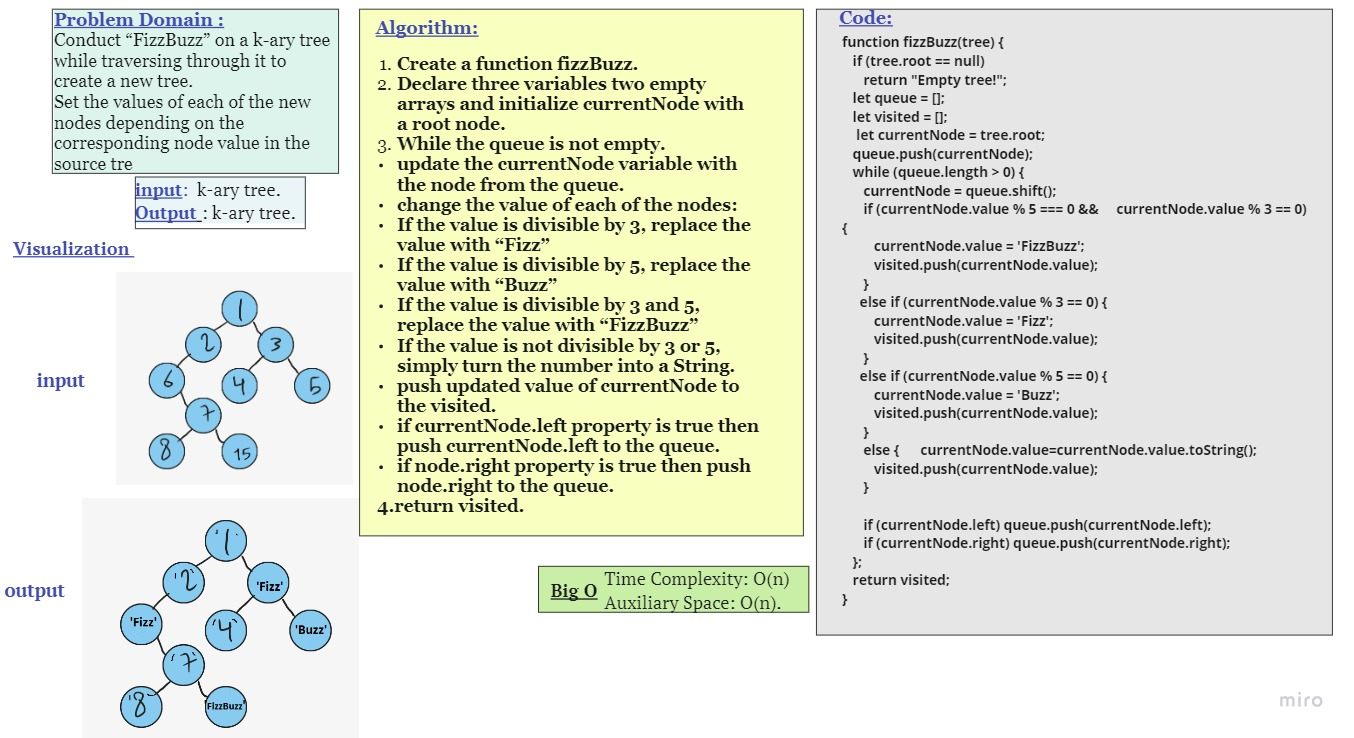
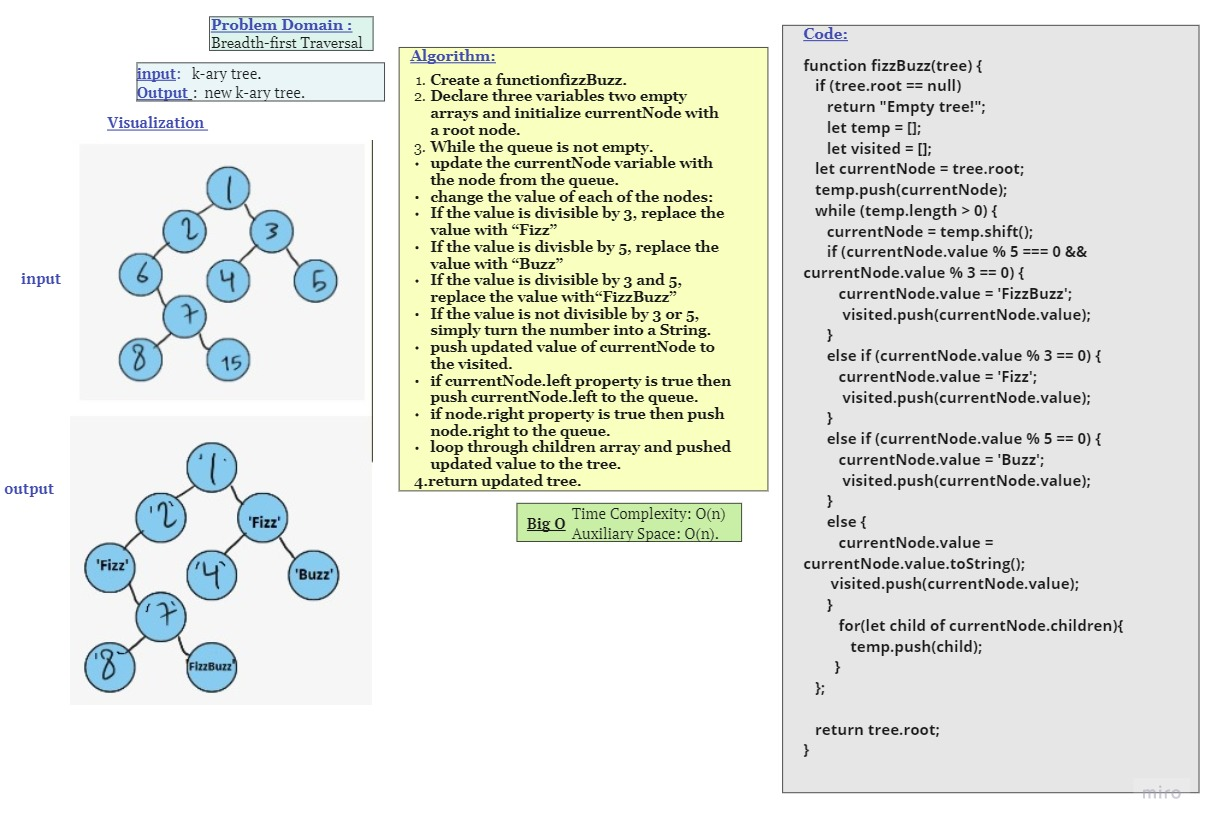
k ary update

diff --git a/javascript/trees/fizzBuzz/__test__/fizzBuzz.test.js b/javascript/trees/fizzBuzz/__test__/fizzBuzz.test.js
@@ -1,66 +1,51 @@
 'use strict';
-const fizzBuzz=require('../fizzBuzz')
-const BinaryTree=require('../../binaryTree/binary-tree')
-const Node = require('../../node');
+const { Node, KaryTree, fizzBuzz }=require('../fizzBuzz')
 
-let tree = null;
+
 
 describe("Binary Tree", () => {
     beforeAll(() => {
-        let one = new Node(1);
-        let two = new Node(2);
-        let three = new Node(3);
-        let four = new Node(4);
-        let five = new Node(5);
-        let six = new Node(6);
-        let seven = new Node(7);
-        let eight = new Node(8);
-        let nine = new Node(15);
+let tree = null
+let one = new Node(1);
+let two = new Node(2);
+let three = new Node(3);
+let fifteen = new Node(15);
+let five = new Node (5)
+let nine=new Node (9);
+let six= new Node(6);
+let thirty= new Node(30);
 
-        one.left = two;
-        one.right = three;
-        two.left = six;
-        six.right = seven;
-        seven.left = eight;
-        seven.right = nine;
-        three.left = four;
-        three.right = five;
+one.children=[two,three,fifteen,five];
+two.children=[nine,six,thirty];
 
-        tree = new BinaryTree(one);
+tree = new KaryTree(one);
     });
-    test('implement fizzBuzz', () => {
-        expect(fizzBuzz(tree)).toEqual([
-            '1',        '2',
-            'Fizz',     'Fizz',
-            '4',        'Buzz',
-            '7',        '8',
-            'FizzBuzz'
-          ]);
-    });
+   
     test('return EmptyTree on an empty tree', () => {
-        const newTree = new BinaryTree();
+        const newTree = new KaryTree();
         expect(fizzBuzz(newTree)).toEqual("Empty tree!");
     });
     
     test('If the value is divisible by 3 and 5, replace the value with “FizzBuzz”.',()=>{
         
         let one = new Node(15);
-        let tree = new BinaryTree(one);
-        
-        expect(fizzBuzz(tree)).toEqual(['FizzBuzz']);
+        let tree = new KaryTree(one);
+        expect(fizzBuzz(tree).value).toEqual('FizzBuzz');
     })
     test("If the value is divisible by 3, replace the value with “Fizz”.", () => {
         let one = new Node(3);
-        let tree = new BinaryTree(one);
-        expect(fizzBuzz(tree)).toEqual(['Fizz']);
+        let tree = new KaryTree(one);
+        expect(fizzBuzz(tree).value).toEqual('Fizz');
       });
       test("If the value is divisible by 5, replace the value with “Buzz”.", () => {
         let one = new Node(5);
-        let tree = new BinaryTree(one);
-        expect(fizzBuzz(tree)).toEqual(['Buzz']);
+        let tree = new KaryTree(one);
+        expect(fizzBuzz(tree).value).toEqual('Buzz');
       });
     test('If the value is not divisible by 3 or 5, simply turn the number into a String',()=>{
-        expect(tree.root.value).toEqual('1');
+        let one = new Node(1);
+        let tree = new KaryTree(one);
+        expect(fizzBuzz(tree).value).toEqual('1');
     })
     
 })

diff --git a/javascript/trees/fizzBuzz/fizzBuzz.js b/javascript/trees/fizzBuzz/fizzBuzz.js
@@ -1,41 +1,59 @@
 'use strict';
+class Node {
+   constructor(value) {
+     this.value = value;
+   //   this.parent = null;
+     this.children = [];
+   }
+ } 
+ class KaryTree {
+   constructor(root=null) {
+     this.root = root;
+   
+   }
+ }
 
 function fizzBuzz(tree) {
    if (tree.root == null)
       return "Empty tree!";
-      let queue = [];
+      let temp = [];
       let visited = [];
    let currentNode = tree.root;
-   queue.push(currentNode);
-   while (queue.length > 0) {
-      currentNode = queue.shift();
+   temp.push(currentNode);
+   while (temp.length > 0) {
+      currentNode = temp.shift();
       if (currentNode.value % 5 === 0 && currentNode.value % 3 == 0) {
          currentNode.value = 'FizzBuzz';
-         visited.push(currentNode.value);
+          visited.push(currentNode.value);
       }
 
       else if (currentNode.value % 3 == 0) {
          currentNode.value = 'Fizz';
-         visited.push(currentNode.value);
+          visited.push(currentNode.value);
 
       }
 
       else if (currentNode.value % 5 == 0) {
          currentNode.value = 'Buzz';
-         visited.push(currentNode.value);
+          visited.push(currentNode.value);
       }
 
       else {
          currentNode.value = currentNode.value.toString();
-         visited.push(currentNode.value);
+       visited.push(currentNode.value);
       }
-
-      if (currentNode.left) queue.push(currentNode.left);
-      if (currentNode.right) queue.push(currentNode.right);
-
+         for(let child of currentNode.children){
+            temp.push(child); 
+        } 
    };
-   return visited;
+  
+    return tree.root;
+   // return visited;
 }
 
 
-module.exports = fizzBuzz;
+module.exports = {
+   Node,
+   KaryTree,
+   fizzBuzz,
+ };

diff --git a/javascript/trees/fizzBuzz/index.js b/javascript/trees/fizzBuzz/index.js
@@ -1,0 +1,63 @@
+
+'use strict';
+const { Node, KaryTree, fizzBuzz } = require('./fizzBuzz');
+
+
+let tree = null
+let one = new Node(1);
+let two = new Node(2);
+let three = new Node(3);
+let fifteen = new Node(15);
+let five = new Node (5)
+let nine=new Node (9);
+let six= new Node(6);
+let thirty= new Node(30);
+
+one.children=[two,three,fifteen,five];
+two.children=[nine,six,thirty];
+
+tree = new KaryTree(one);
+ console.log(tree.root.children[0])
+ console.log(fizzBuzz(tree))
+
+// let fbTree = fizzBuzz(tree);
+// let node2 = three.children[0];
+// let node3 = three.children[1];
+// let node4 = three.children[2];
+// let node5 = three.children[3];
+
+// let node6 = node2.children[0];
+// let node7 = node2.children[1];
+
+
+// console.log(tree)
+// console.log(fizzBuzz(tree))
+// console.log('fbTree.root.value:', tree.root.value);
+// console.log('node2.value:', node2.value);
+// console.log('node3.value:', node3.value);
+// console.log('node4.value:', node4.value);
+// console.log('node5.value:', node5.value);
+// console.log('node6.value:', node6.value);
+// console.log('node7.value:', node7.value);
+
+///////////////////////////////////
+// let tree=null,result=null;
+// let fifteen = new Node(15);
+//         let two = new Node(2);
+//         let three = new Node(3);
+//         let four = new Node(4);
+//         let five = new Node(5);
+
+//         fifteen.children=[two,three,four,five]; 
+//         two.parent=fifteen;       
+//         three.parent=fifteen;       
+//         four.parent=fifteen;       
+//         five.parent=fifteen;       
+//         tree = new KaryTree(fifteen);
+        
+//         console.log(tree.root)
+//         console.log(fizzBuzz(tree))
+
+/////////////////////////
+
+

diff --git a/javascript/trees/index.js b/javascript/trees/index.js
@@ -1,9 +1,9 @@
 'use strict';
 const BinaryTree = require('./binaryTree/binary-tree');
 const BinarySearchTree = require('./binarySearchTree/binary-search-tree');
-const fizzBuzz=require('./fizzBuzz/fizzBuzz');
+// const {Node,fizzBuzz}=require('./fizzBuzz/fizzBuzz');
 const breadthFirst=require('../trees/breadth-first/breadth-first')
-const Node = require('./node');
+ const Node = require('./node');
 
 let tree = null;
 
@@ -31,16 +31,16 @@ tree = new BinaryTree(one);
 // const treeSearch = new BinarySearchTree();
 
 let preOrder = tree.preOrder();
-// console.log('pre order: ', preOrder);
+console.log('pre order: ', preOrder);
 //pre order > 1 , 2 , 6 , 7 , 8 , 9 , 3 , 4 , 5
 
 let inOrder = tree.inOrder();
-// console.log('in order: ', inOrder);
+console.log('in order: ', inOrder);
 //in order > 6 , 8 , 7 , 9 , 2 , 1 , 4 , 3 , 5
 
 
 let postOrder = tree.postOrder();
-// console.log('post order: ', postOrder);
+console.log('post order: ', postOrder);
 //postorder > 8 , 9 , 7 , 6 , 2 , 4 , 5 , 3 , 1
 
 const binarySearchTree = new BinarySearchTree();
@@ -52,10 +52,10 @@ binarySearchTree.add(7000);
 binarySearchTree.add(69);
 binarySearchTree.add(4);
 
-// console.log(binarySearchTree.contains(7000));
-// console.log(binarySearchTree.contains(3));
-// console.log(binarySearchTree.contains(20));
-// console.log(binarySearchTree.contains(9000));
-// console.log(binarySearchTree.contains(200));
+console.log(binarySearchTree.contains(7000));
+console.log(binarySearchTree.contains(3));
+console.log(binarySearchTree.contains(20));
+console.log(binarySearchTree.contains(9000));
+console.log(binarySearchTree.contains(200));
 console.log(breadthFirst(tree));
-console.log(fizzBuzz(tree));
+// console.log(fizzBuzz(tree));
